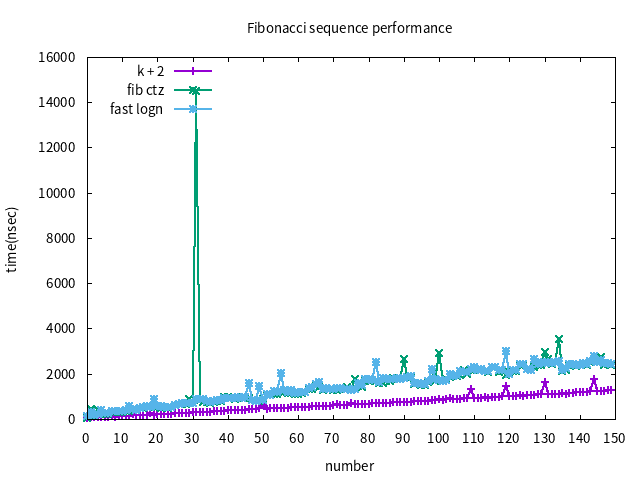
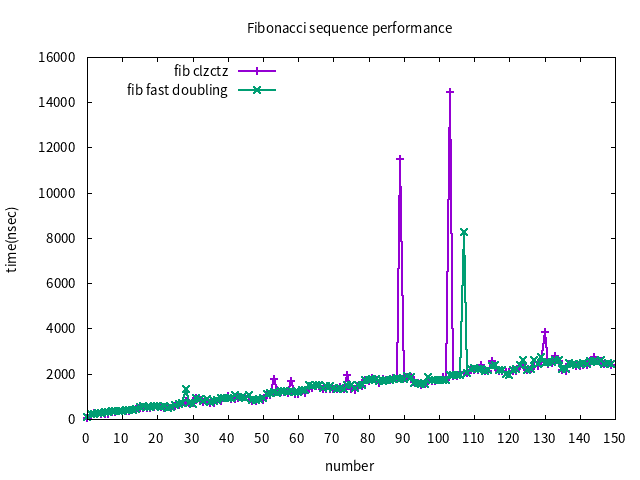
Compare whether clz & ctz were used.

diff --git a/analysis.c b/analysis.c
@@ -92,9 +92,8 @@ static struct BigN *multiplieBigN(struct BigN *x, struct BigN *y)
 }
 
 
-static struct BigN fib_sequence(long long k)
+/*static struct BigN fib_sequence(long long k)
 {
-    /* FIXME: use clz/ctz and fast algorithms to speed up */
     struct BigN f[k + 2];
 
 //    f[0].top = 0;
@@ -130,7 +129,7 @@ static struct BigN fib_3(int k)
     }
 
     return t3;
-}
+}*/
 
 /*static struct BigN fib_3(int k)
 {
@@ -263,10 +262,10 @@ void display_big_fibnum(int index, struct BigN res)
     char buf[1000] = {0};
     snprintf(buf, sizeof(buf), "%llu", res.lower);
     get_big_fibnum(buf, res.upper);
-    printf("%d = %s\n", index, buf);
+    //printf("%d = %s\n", index, buf);
 }
 
-static uint128_t fib_ctz(int k)
+static uint128_t fib_clzctz(int k)
 {
     uint128_t a = {.lower = 0, .upper = 0};
     uint128_t b = {.lower = 1, .upper = 0};
@@ -301,7 +300,7 @@ static uint128_t fib_ctz(int k)
     return a;
 }
 
-void fib_fast_logn(int k, uint128_t *ans0, uint128_t *ans1)
+void fib_fast_doubling(int k, uint128_t *ans0, uint128_t *ans1)
 {
     if (k == 0) {
         ans0->upper = 0llu;
@@ -311,10 +310,9 @@ void fib_fast_logn(int k, uint128_t *ans0, uint128_t *ans1)
     	return;
     }
 
-    fib_fast_logn((k/2), ans0, ans1);
+    fib_fast_doubling((k/2), ans0, ans1);
     uint128_t a = *ans0;
     uint128_t b = *ans1;
-//    printf("*********%d************ %llu %llu\n",k ,a.upper, a.lower);
 
     uint128_t b2; 
     uint128_t c = {.upper = 0llu, .lower = 0llu};
@@ -322,7 +320,6 @@ void fib_fast_logn(int k, uint128_t *ans0, uint128_t *ans1)
     add_t(&b2,b,b);
     sub_t(&c,b2,a);
 
-    //printf("*********%d************ %llu %llu\n",k ,b2.upper, b2.lower); 
     uint128_t cpa = {.upper = 0llu, .lower = 0llu};
     mul_t(&cpa,a,c);
     mul_t(&a,a,a);
@@ -336,7 +333,6 @@ void fib_fast_logn(int k, uint128_t *ans0, uint128_t *ans1)
 	*ans0 = cpa;
 	*ans1 = d;
     }
-    //printf("*********%d************ %llu %llu\n",k ,c.upper, c.lower);
 }
     
 #define count 10000
@@ -358,20 +354,20 @@ int main()
         double t1, t2, t3;
 
         /* fib_sequence */
-        for(int j = 0; j < count; j++) {
+        /*for(int j = 0; j < count; j++) {
             clock_gettime(CLOCK_MONOTONIC, &start);
             struct BigN res1 = fib_sequence(i);
-            if(j == 0)
-	    	display_big_fibnum(i, res1);
+//            if(j == 0)
+//	    	display_big_fibnum(i, res1);
             clock_gettime(CLOCK_MONOTONIC, &stop);
             t1 = diff_in_ns(start, stop);
 	    t1_rs += t1;
-        }
+        }*/
 
-        /* fib_ctz */
+        /* fib_clzctz */
 	for(int j = 0; j < count; j++) {
             clock_gettime(CLOCK_MONOTONIC, &start);
-            uint128_t x = fib_ctz(i);
+            uint128_t x = fib_clzctz(i);
             clock_gettime(CLOCK_MONOTONIC, &stop);
 
 	    struct BigN res2;
@@ -381,27 +377,23 @@ int main()
 	    if(j == 0)
 	        display_big_fibnum(i, res2);
             t2 = diff_in_ns(start, stop);
-	    t2_rs += t2;
+            t2_rs += t2;
 	}
 
 	/* fast_logn */
         for(int j = 0; j < count; j++) {
             clock_gettime(CLOCK_MONOTONIC, &start);
-	    uint128_t ans0;
-            ans0.upper = 0llu;
-            ans0.lower = 0llu;
-	    uint128_t ans1;
-            ans0.upper = 0llu;
-            ans0.lower = 0llu;
-            fib_fast_logn(i, &ans0, &ans1);
+	    uint128_t ans0 = {.upper = 0llu, .lower = 0llu};
+	    uint128_t ans1 = {.upper = 0llu, .lower = 0llu};
+            fib_fast_doubling(i, &ans0, &ans1);
             clock_gettime(CLOCK_MONOTONIC, &stop);
 
-	    struct BigN res3;
-	    res3.upper = ans0.upper;
-	    res3.lower = ans0.lower;
+	    struct BigN res2;
+	    res2.upper = ans0.upper;
+	    res2.lower = ans0.lower;
 
-            if(j == 0)
-                display_big_fibnum(i, res3);
+//            if(j == 0)
+//                display_big_fibnum(i, res2);
             t3 = diff_in_ns(start, stop);
             t3_rs += t3;
             //printf("%d : %llu %llu\n", i, ans0.upper, ans0.lower);  
@@ -412,17 +404,18 @@ int main()
             clock_gettime(CLOCK_MONOTONIC, &start);
             struct BigN res3 = fib_3(i);
             clock_gettime(CLOCK_MONOTONIC, &stop);
-            if(j == 0)
-                display_big_fibnum(i, res3);
+//            if(j == 0)
+//                display_big_fibnum(i, res3);
             t3 = diff_in_ns(start, stop);
             t3_rs += t3;
         }*/
 
 //        t1_rs /= count;
-//	t2_rs /= count;
+	t2_rs /= count;
         t3_rs /= count;
-	snprintf(time_buf, sizeof(time_buf), "%d %.10lf %.10lf %.10lf\n", i, t1, t2, t3);
+	snprintf(time_buf, sizeof(time_buf), "%d %.10lf %.10lf\n", i, t2, t3);
         fputs(time_buf, fp);
+        printf("%d\n",i);
     }
 
     return 0;
